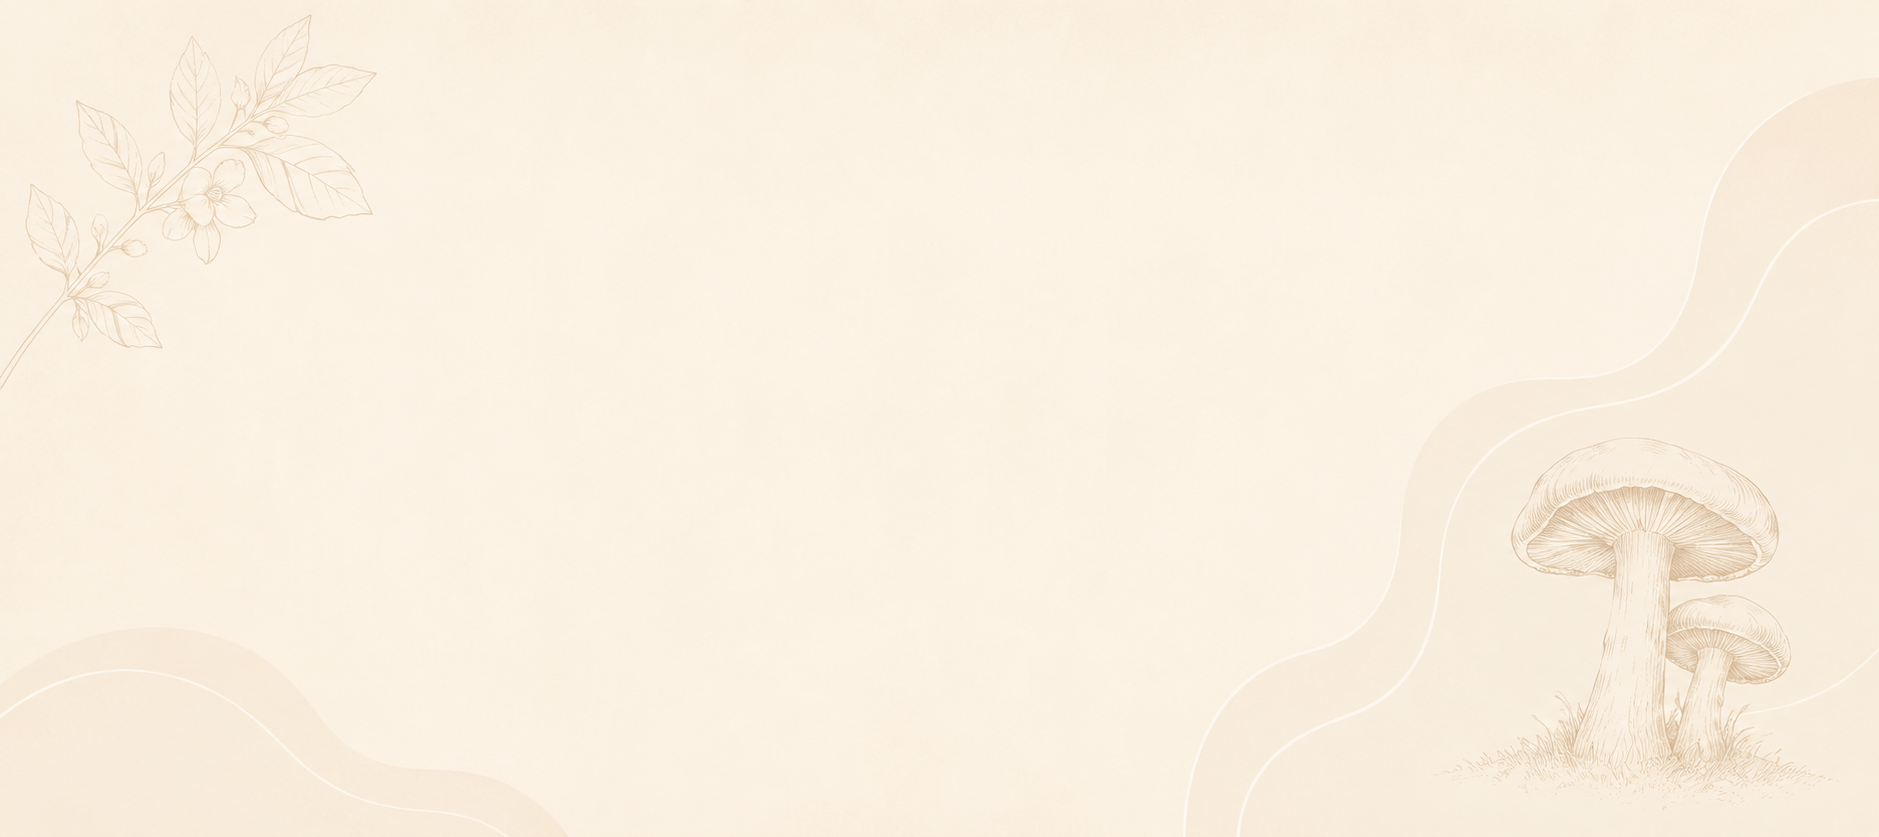
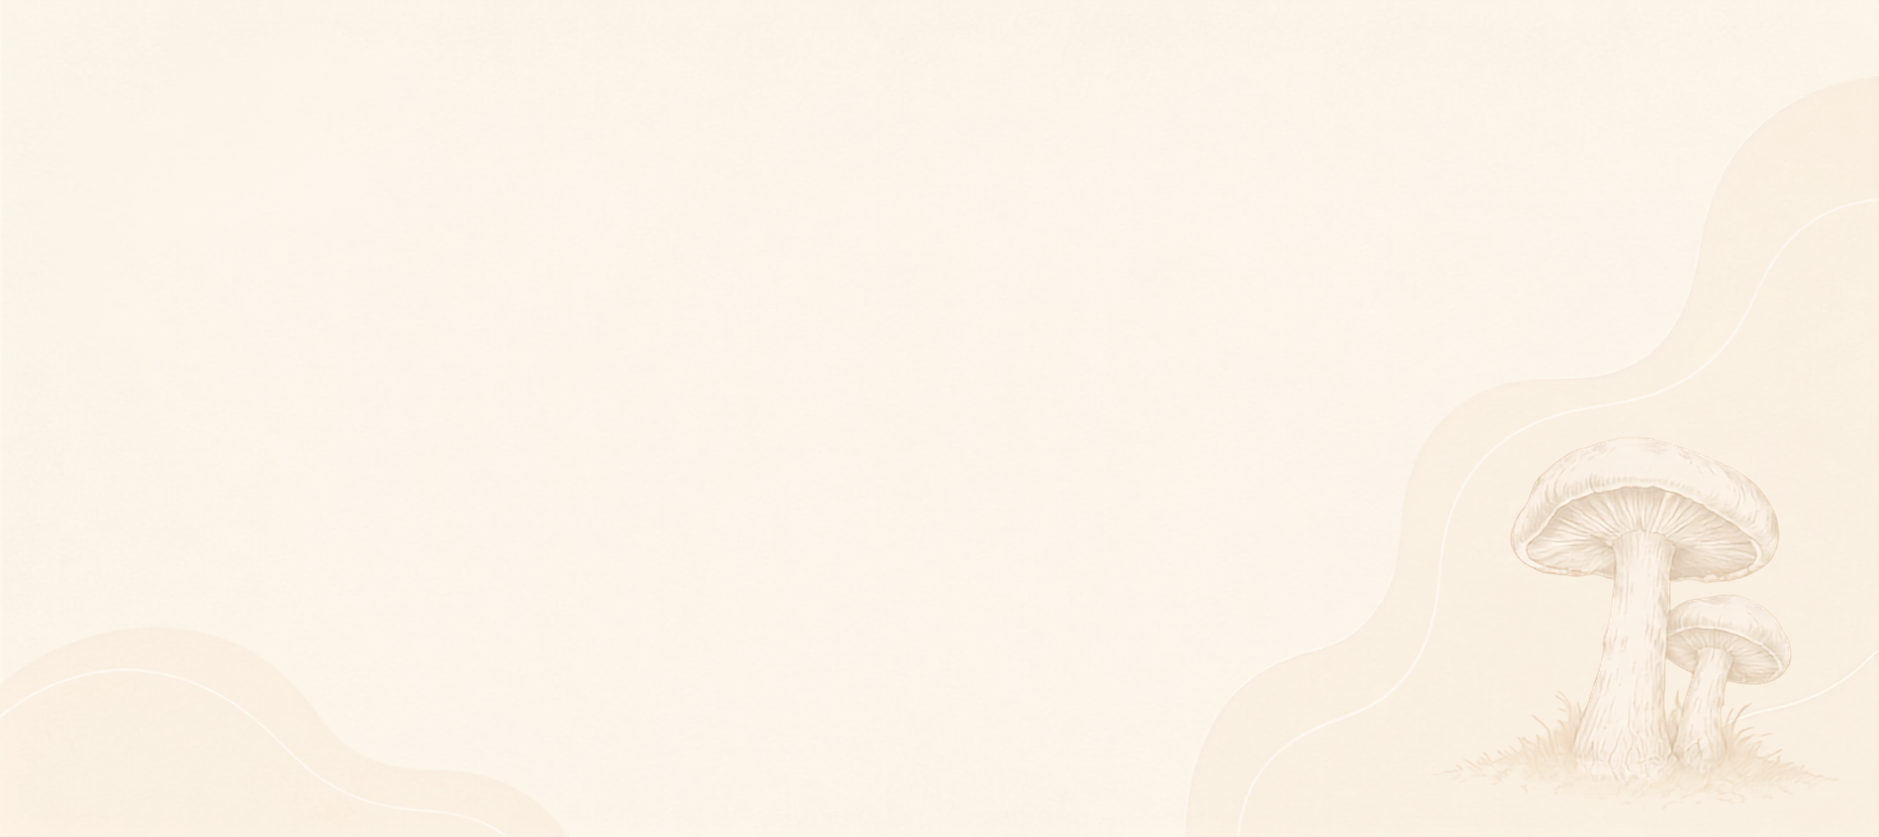
Botones con relieve suave y nuevo fondo de footer
Botones: se aplica el diseno neumorfico a los CTA (cards, modal, VER
PRODUCTOS, resumen, checkout) y a los controles redondos: gradiente
claro, doble sombra (oscura abajo-derecha, luz arriba-izquierda) y, al
presionar, las sombras van hacia adentro.

El texto va en azul de marca y no en el gris del ejemplo: ese gris
sobre el fondo claro daba 1.63:1 de contraste, ilegible para un CTA.
Asi queda en 10.43:1.

"Vaciar carrito" se deja como texto plano: es una accion terciaria y
destructiva, no corresponde darle el mismo peso visual.

Footer: nueva imagen de fondo, sin la rama de hojas. De paso baja de
1407KB a 799KB.

diff --git a/css/style.css b/css/style.css
@@ -3953,3 +3953,87 @@ body { padding-top: calc(var(--nav-h) + var(--nav-arch)); }
     min-height: 46px;
   }
 }
+
+/* ============================================================
+   BOTONES — relieve suave (neumorfico)
+   Gradiente claro + doble sombra: oscura abajo-derecha y luz
+   arriba-izquierda. Al presionar, las sombras van hacia adentro
+   para que el boton se "hunda".
+   El texto va en azul de marca y no en el gris del ejemplo, que
+   sobre blanco daba un contraste de ~1.6:1 (ilegible).
+   ============================================================ */
+.nuve-card__btn,
+.prod-modal__btn,
+.hongos__footer-btn,
+.order-summary__btn-primary,
+.checkout-submit__btn,
+.cart-empty__btn {
+  background: linear-gradient(145deg, #ffffff, #e8e8e8);
+  color: var(--bosque);
+  border: 1px solid rgba(255, 255, 255, 0.9);
+  border-radius: 999px;
+  box-shadow:
+    5px 5px 12px rgba(28, 58, 79, 0.18),
+    -5px -5px 12px rgba(255, 255, 255, 0.95);
+  text-shadow: 0 1px 0 rgba(255, 255, 255, 0.8);
+  transition: box-shadow 0.25s ease, transform 0.15s ease;
+}
+
+.nuve-card__btn:hover,
+.prod-modal__btn:hover,
+.hongos__footer-btn:hover,
+.order-summary__btn-primary:hover,
+.checkout-submit__btn:hover,
+.cart-empty__btn:hover {
+  background: linear-gradient(145deg, #ffffff, #e2e2e2);
+  color: var(--bosque);
+  box-shadow:
+    3px 3px 8px rgba(28, 58, 79, 0.22),
+    -3px -3px 8px rgba(255, 255, 255, 0.95);
+}
+
+/* Presionado: el relieve se invierte hacia adentro */
+.nuve-card__btn:active,
+.prod-modal__btn:active,
+.hongos__footer-btn:active,
+.order-summary__btn-primary:active,
+.checkout-submit__btn:active,
+.cart-empty__btn:active {
+  box-shadow:
+    inset 4px 4px 9px rgba(28, 58, 79, 0.20),
+    inset -4px -4px 9px rgba(255, 255, 255, 0.9);
+  transform: translateY(1px);
+}
+
+.nuve-card__btn--agotado,
+.nuve-card__btn:disabled {
+  box-shadow: none;
+  background: #f0f0f0;
+  color: #9a9a9a;
+}
+
+/* Mismo relieve en los controles redondos y en el boton secundario.
+   "Vaciar carrito" queda como texto: es terciario y destructivo. */
+.qty-control__btn,
+.order-summary__btn-secondary {
+  background: linear-gradient(145deg, #ffffff, #e8e8e8);
+  border: 1px solid rgba(255, 255, 255, 0.9);
+  box-shadow:
+    3px 3px 7px rgba(28, 58, 79, 0.16),
+    -3px -3px 7px rgba(255, 255, 255, 0.95);
+  transition: box-shadow 0.25s ease;
+}
+
+.qty-control__btn:hover,
+.order-summary__btn-secondary:hover {
+  box-shadow:
+    2px 2px 5px rgba(28, 58, 79, 0.2),
+    -2px -2px 5px rgba(255, 255, 255, 0.95);
+}
+
+.qty-control__btn:active,
+.order-summary__btn-secondary:active {
+  box-shadow:
+    inset 3px 3px 6px rgba(28, 58, 79, 0.18),
+    inset -3px -3px 6px rgba(255, 255, 255, 0.9);
+}

diff --git a/productos.html b/productos.html
@@ -8,7 +8,7 @@
   <link rel="preconnect" href="https://fonts.googleapis.com">
   <link rel="preconnect" href="https://fonts.gstatic.com" crossorigin>
   <link href="https://fonts.googleapis.com/css2?family=Playfair+Display:wght@400;500;600;700&family=Lato:wght@300;400;700&display=swap" rel="stylesheet">
-<link rel="stylesheet" href="css/style.css?v=60">
+<link rel="stylesheet" href="css/style.css?v=62">
 </head>
 <body class="page-productos">
 

diff --git a/checkout-resultado.html b/checkout-resultado.html
@@ -7,7 +7,7 @@
   <link rel="preconnect" href="https://fonts.googleapis.com">
   <link rel="preconnect" href="https://fonts.gstatic.com" crossorigin>
   <link href="https://fonts.googleapis.com/css2?family=Playfair+Display:wght@400;500;600;700&family=Lato:wght@300;400;700&display=swap" rel="stylesheet">
-<link rel="stylesheet" href="css/style.css?v=60">
+<link rel="stylesheet" href="css/style.css?v=62">
 </head>
 <body class="page-checkout">
 

diff --git a/checkout.html b/checkout.html
@@ -8,7 +8,7 @@
   <link rel="preconnect" href="https://fonts.googleapis.com">
   <link rel="preconnect" href="https://fonts.gstatic.com" crossorigin>
   <link href="https://fonts.googleapis.com/css2?family=Playfair+Display:wght@400;500;600;700&family=Lato:wght@300;400;700&display=swap" rel="stylesheet">
-<link rel="stylesheet" href="css/style.css?v=60">
+<link rel="stylesheet" href="css/style.css?v=62">
 </head>
 <body class="page-checkout">
 

diff --git a/carrito.html b/carrito.html
@@ -8,7 +8,7 @@
   <link rel="preconnect" href="https://fonts.googleapis.com">
   <link rel="preconnect" href="https://fonts.gstatic.com" crossorigin>
   <link href="https://fonts.googleapis.com/css2?family=Playfair+Display:wght@400;500;600;700&family=Lato:wght@300;400;700&display=swap" rel="stylesheet">
-<link rel="stylesheet" href="css/style.css?v=60">
+<link rel="stylesheet" href="css/style.css?v=62">
 </head>
 <body class="page-carrito">
 

diff --git a/contacto.html b/contacto.html
@@ -8,7 +8,7 @@
   <link rel="preconnect" href="https://fonts.googleapis.com">
   <link rel="preconnect" href="https://fonts.gstatic.com" crossorigin>
   <link href="https://fonts.googleapis.com/css2?family=Playfair+Display:wght@400;500;600;700&family=Lato:wght@300;400;700&display=swap" rel="stylesheet">
-  <link rel="stylesheet" href="css/style.css?v=60">
+  <link rel="stylesheet" href="css/style.css?v=62">
 </head>
 <body>
 

diff --git a/index.html b/index.html
@@ -8,7 +8,7 @@
   <link rel="preconnect" href="https://fonts.googleapis.com">
   <link rel="preconnect" href="https://fonts.gstatic.com" crossorigin>
   <link href="https://fonts.googleapis.com/css2?family=Playfair+Display:wght@400;500;600;700&family=Lato:wght@300;400;700&display=swap" rel="stylesheet">
-  <link rel="stylesheet" href="css/style.css?v=60">
+  <link rel="stylesheet" href="css/style.css?v=62">
 </head>
 <body>
 

diff --git a/ayuda.html b/ayuda.html
@@ -8,7 +8,7 @@
   <link rel="preconnect" href="https://fonts.googleapis.com">
   <link rel="preconnect" href="https://fonts.gstatic.com" crossorigin>
   <link href="https://fonts.googleapis.com/css2?family=Playfair+Display:wght@400;500;600;700&family=Lato:wght@300;400;700&display=swap" rel="stylesheet">
-<link rel="stylesheet" href="css/style.css?v=60">
+<link rel="stylesheet" href="css/style.css?v=62">
 </head>
 <body>
 

diff --git a/nosotros.html b/nosotros.html
@@ -8,7 +8,7 @@
   <link rel="preconnect" href="https://fonts.googleapis.com">
   <link rel="preconnect" href="https://fonts.gstatic.com" crossorigin>
   <link href="https://fonts.googleapis.com/css2?family=Playfair+Display:wght@400;500;600;700&family=Lato:wght@300;400;700&display=swap" rel="stylesheet">
-<link rel="stylesheet" href="css/style.css?v=60">
+<link rel="stylesheet" href="css/style.css?v=62">
 </head>
 <body>
 
